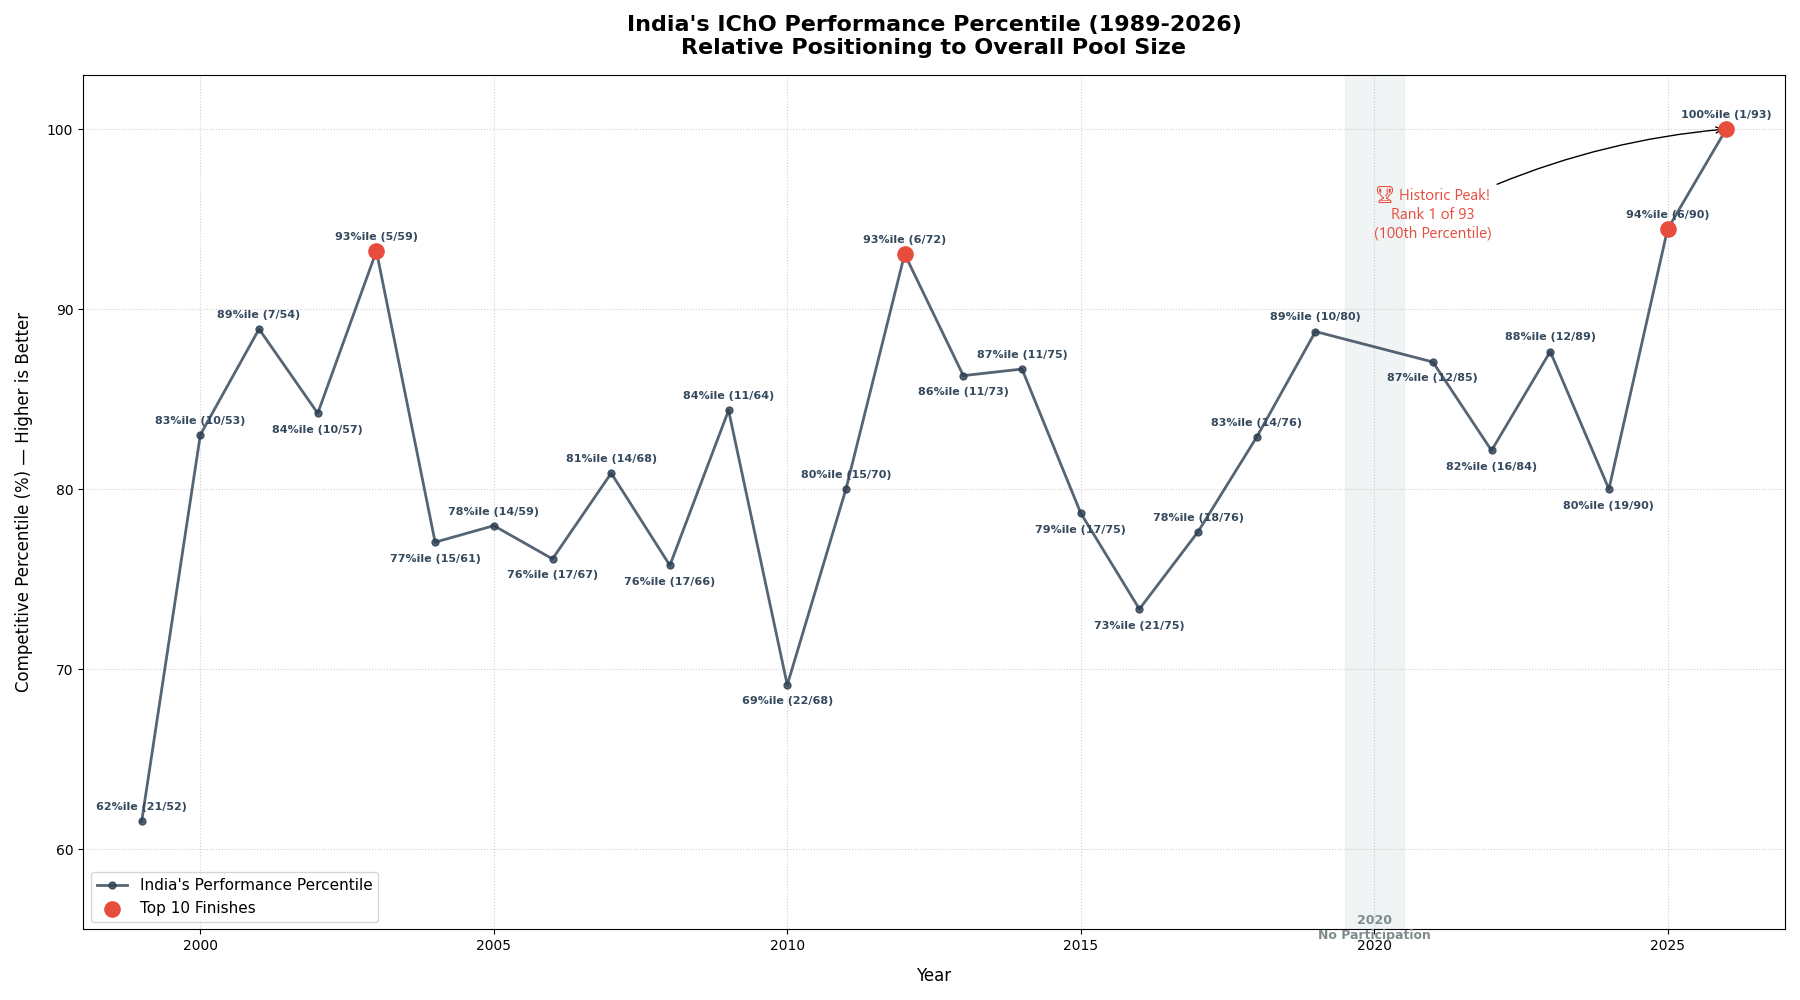
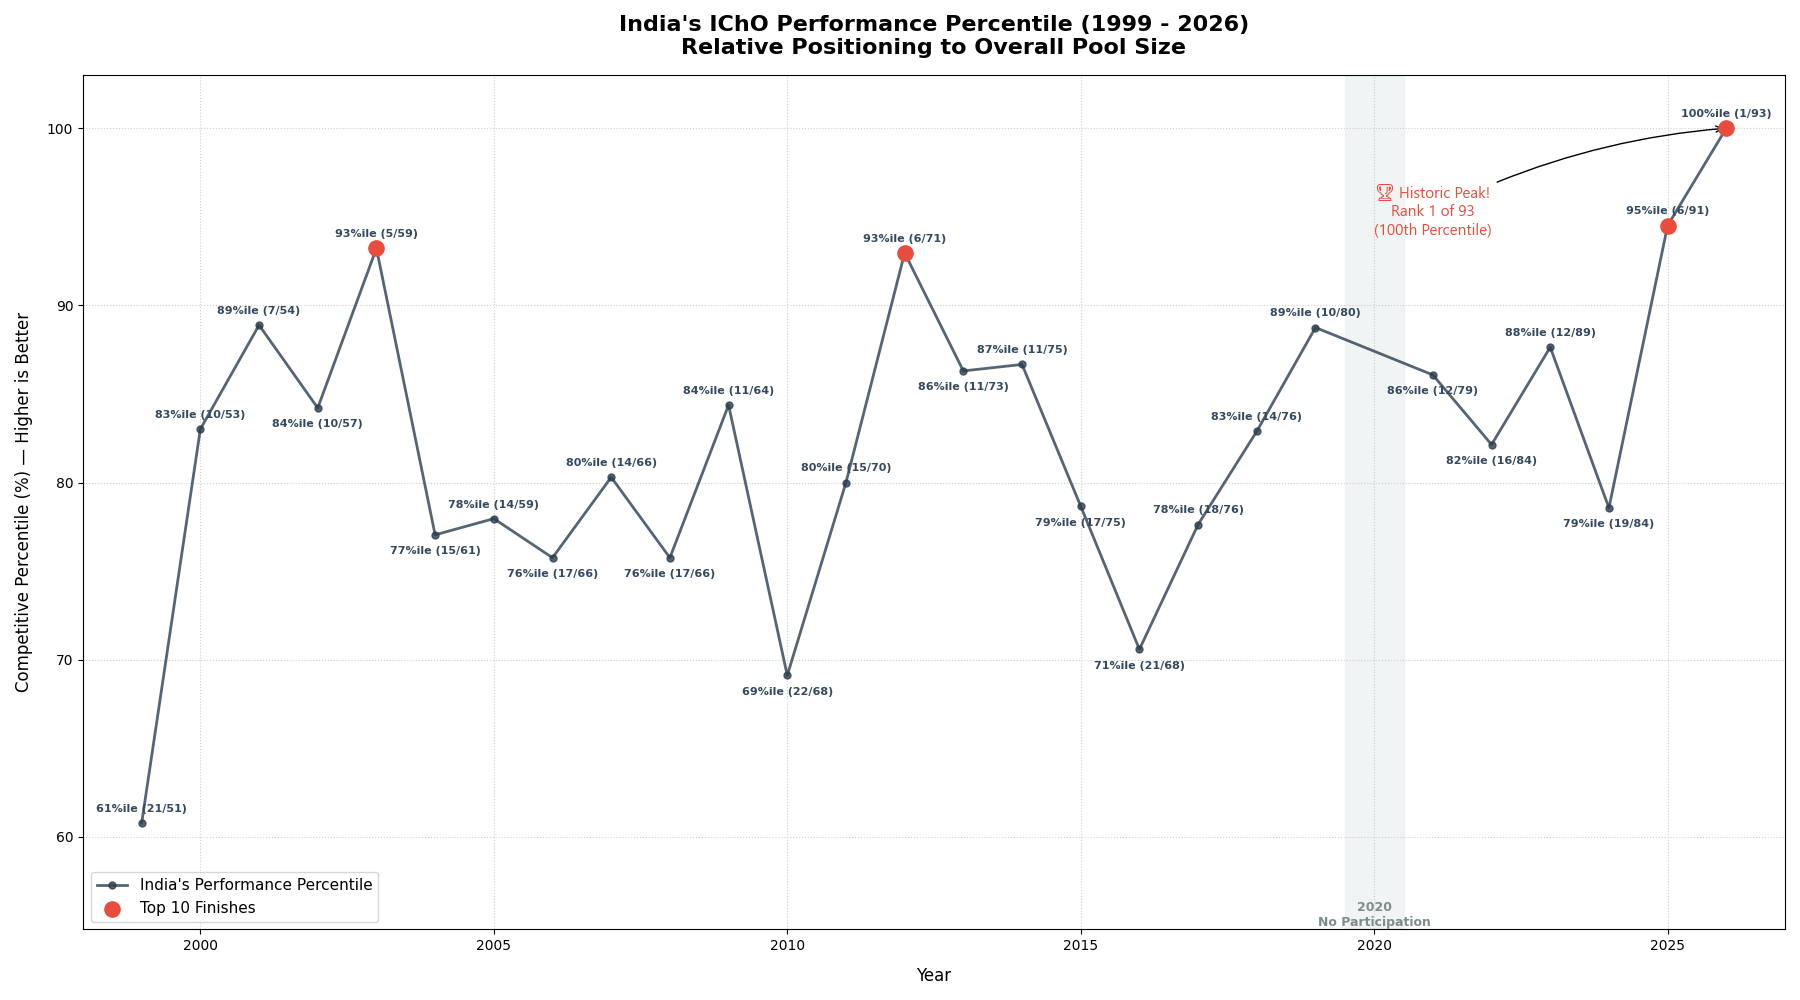
icho_minor

diff --git a/india_icho_percentile.py b/india_icho_percentile.py
@@ -113,7 +113,7 @@ plt.annotate(
 
 # Plot customization
 plt.title(
-    "India's IChO Performance Percentile (1989-2026)\nRelative Positioning to Overall Pool Size",
+    f"India's IChO Performance Percentile ({icho_data[0][0]} - {icho_data[-1][0]})\nRelative Positioning to Overall Pool Size",
     fontsize=16,
     fontweight="bold",
     pad=15,
